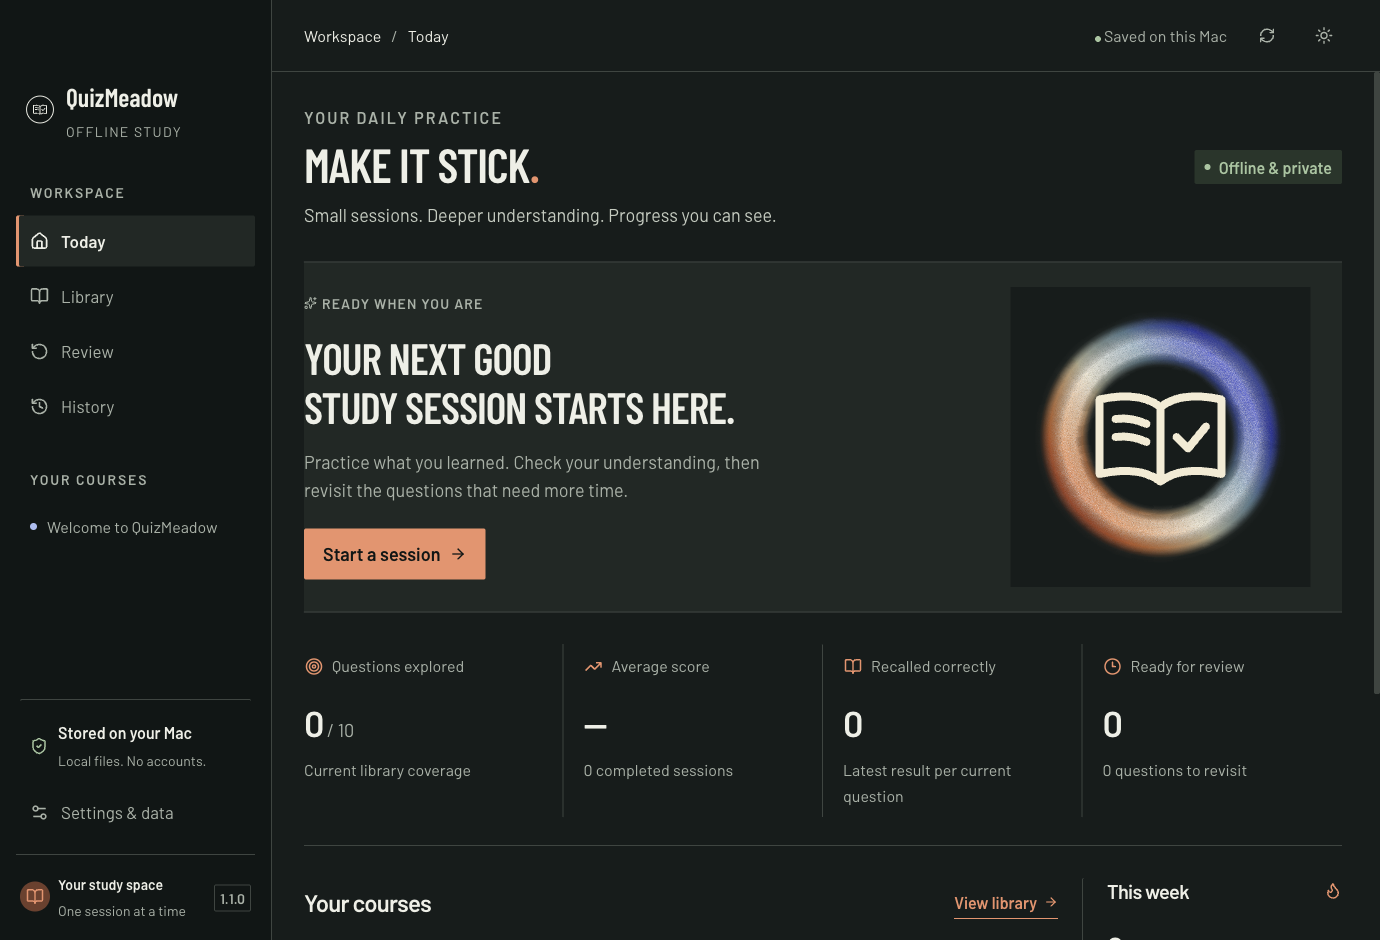
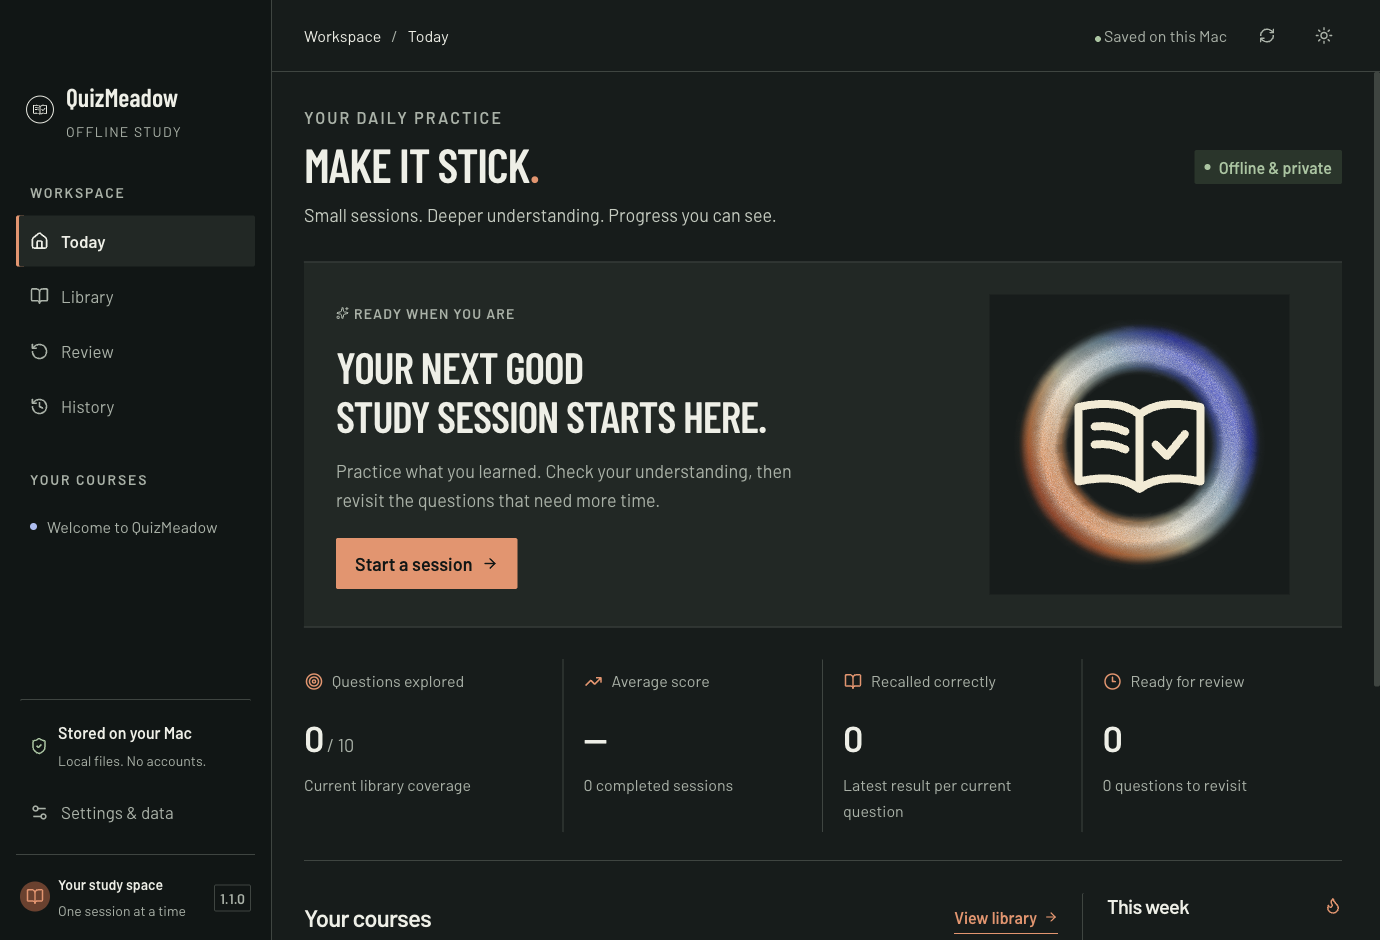
Fix dashboard card padding for release 1.1.1

diff --git a/src/renderer/styles.css b/src/renderer/styles.css
@@ -520,9 +520,9 @@ input[type=checkbox]{width:20px;height:20px}
 
 :root[data-theme=light] .page-heading p{color:var(--muted)}
 
-.hero-card{background:var(--surface);border:0;border-top:1px solid var(--border);border-bottom:1px solid var(--border);border-radius:0;min-height:300px;margin-bottom:32px;align-items:center}
+.hero-card{background:var(--surface);border:0;border-top:1px solid var(--border);border-bottom:1px solid var(--border);border-radius:0;min-height:300px;margin-bottom:32px;align-items:center;padding:32px}
 
-.hero-copy{width:65%;padding:28px 32px 32px 0}
+.hero-copy{width:65%;padding:0 32px 0 0}
 
 .hero-copy .pill{color:var(--muted);background:none;border:0;padding:0;font-size:14px;letter-spacing:.08em;text-transform:uppercase}
 
@@ -532,7 +532,7 @@ input[type=checkbox]{width:20px;height:20px}
 
 .hero-graphic{width:35%;min-width:0;height:auto;display:flex;align-items:center;justify-content:center;transform:none}
 
-.brand-mark-large{width:clamp(180px,23vw,300px);height:auto;aspect-ratio:1;background:var(--bg-canvas);border-radius:0}
+.brand-mark-large{width:clamp(180px,23vw,300px);max-width:100%;height:auto;aspect-ratio:1;background:var(--bg-canvas);border-radius:0}
 
 :root[data-theme=light] .hero-graphic{background:var(--bg-canvas)}
 
@@ -616,7 +616,8 @@ input[type=checkbox]{width:20px;height:20px}
 @media(max-width:1180px){.sidebar{width:240px}
 .brand>span{font-size:23px}
 .brand{padding-left:0;padding-right:0}
-.hero-copy{width:65%;padding:28px 20px 28px 0}
+.hero-card{padding:24px}
+.hero-copy{width:65%;padding:0 24px 0 0}
 .hero-copy h2{font-size:40px}
 .hero-graphic{transform:none}
 .stats-grid{grid-template-columns:repeat(2,minmax(0,1fr));row-gap:24px}
@@ -645,7 +646,7 @@ input[type=checkbox]{width:20px;height:20px}
 .brand{gap:6px}
 .page,.topbar{padding-left:20px;padding-right:20px}
 .topbar-actions>.tiny{display:none}
-.hero-copy{width:100%;padding-right:0}
+.hero-copy{width:100%;padding:0}
 .hero-graphic{display:none}
 .course-grid,.review-stats{grid-template-columns:1fr}
 .stat-card{padding:8px 12px}
@@ -683,7 +684,7 @@ input[type=checkbox]{width:20px;height:20px}
 .search-input{flex-basis:100%}
 .page-heading h1{font-size:38px}
 .hero-copy h2{font-size:32px}
-.hero-card{min-height:0}
+.hero-card{min-height:0;padding:20px}
 .result-hero{flex-direction:column;align-items:flex-start}
 .result-details{flex-wrap:wrap;gap:20px}
 .result-details>div{flex-basis:40%;border:0}
